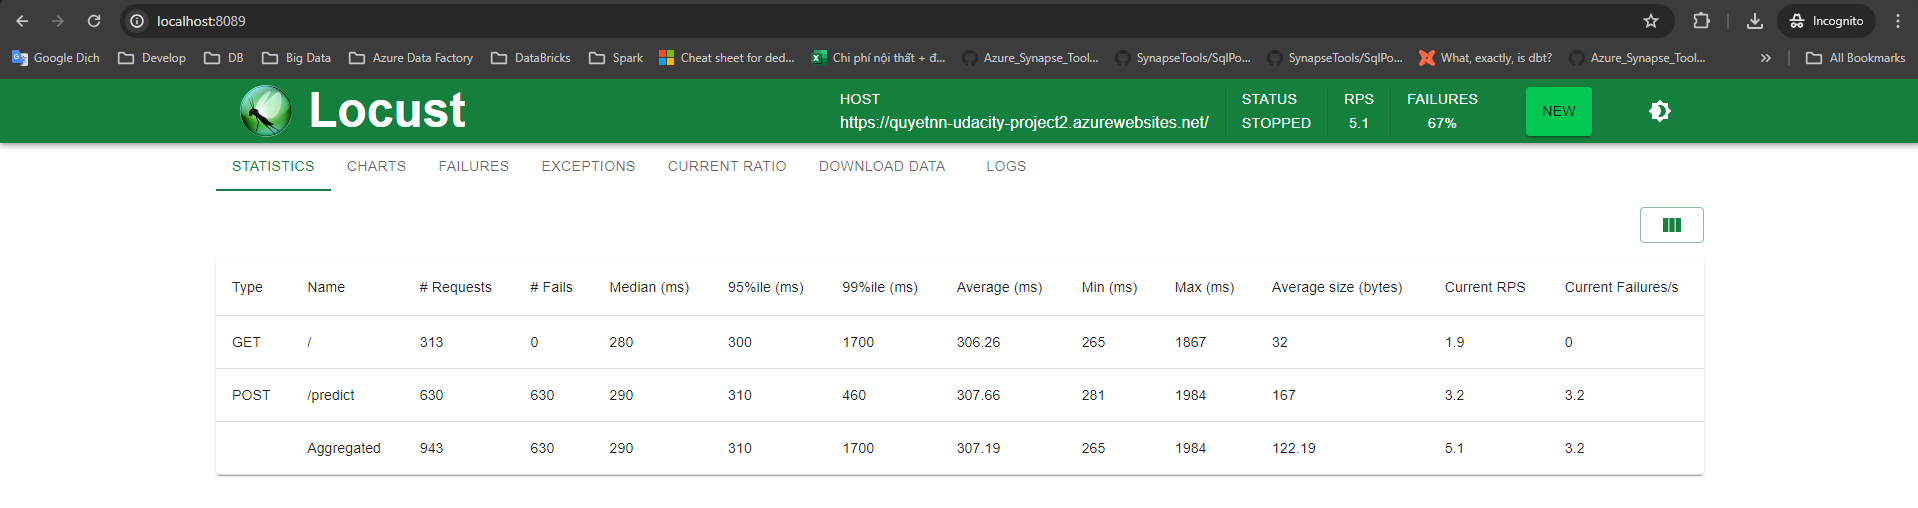
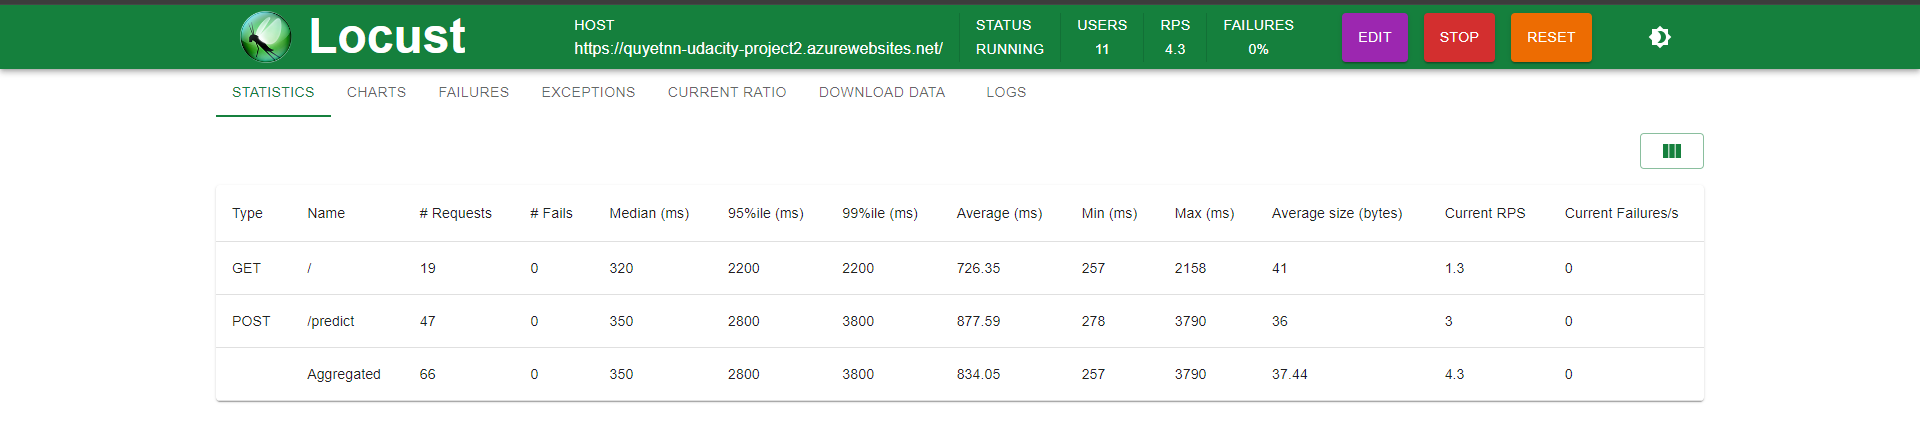
update comment review

diff --git a/locustfile.py b/locustfile.py
@@ -3,10 +3,12 @@ from locust import HttpUser, task, between
 class WebsiteTestUser(HttpUser):
     wait_time = between(0.5, 3.0)
 
+    data = {"CHAS": {"0": 0}, "RM": {"0": 6.575}, "TAX": {"0": 296.0}, "PTRATIO": {"0": 15.3}, "B": {"0": 396.9},
+            "LSTAT": {"0": 4.98}}
     @task(1)
     def test1(self):
         self.client.get("https://quyetnn-udacity-project2.azurewebsites.net/")
 
     @task(2)
     def test2(self):
-        self.client.post("https://quyetnn-udacity-project2.azurewebsites.net:443/predict")
+        self.client.post("https://quyetnn-udacity-project2.azurewebsites.net:443/predict", json=self.data)
